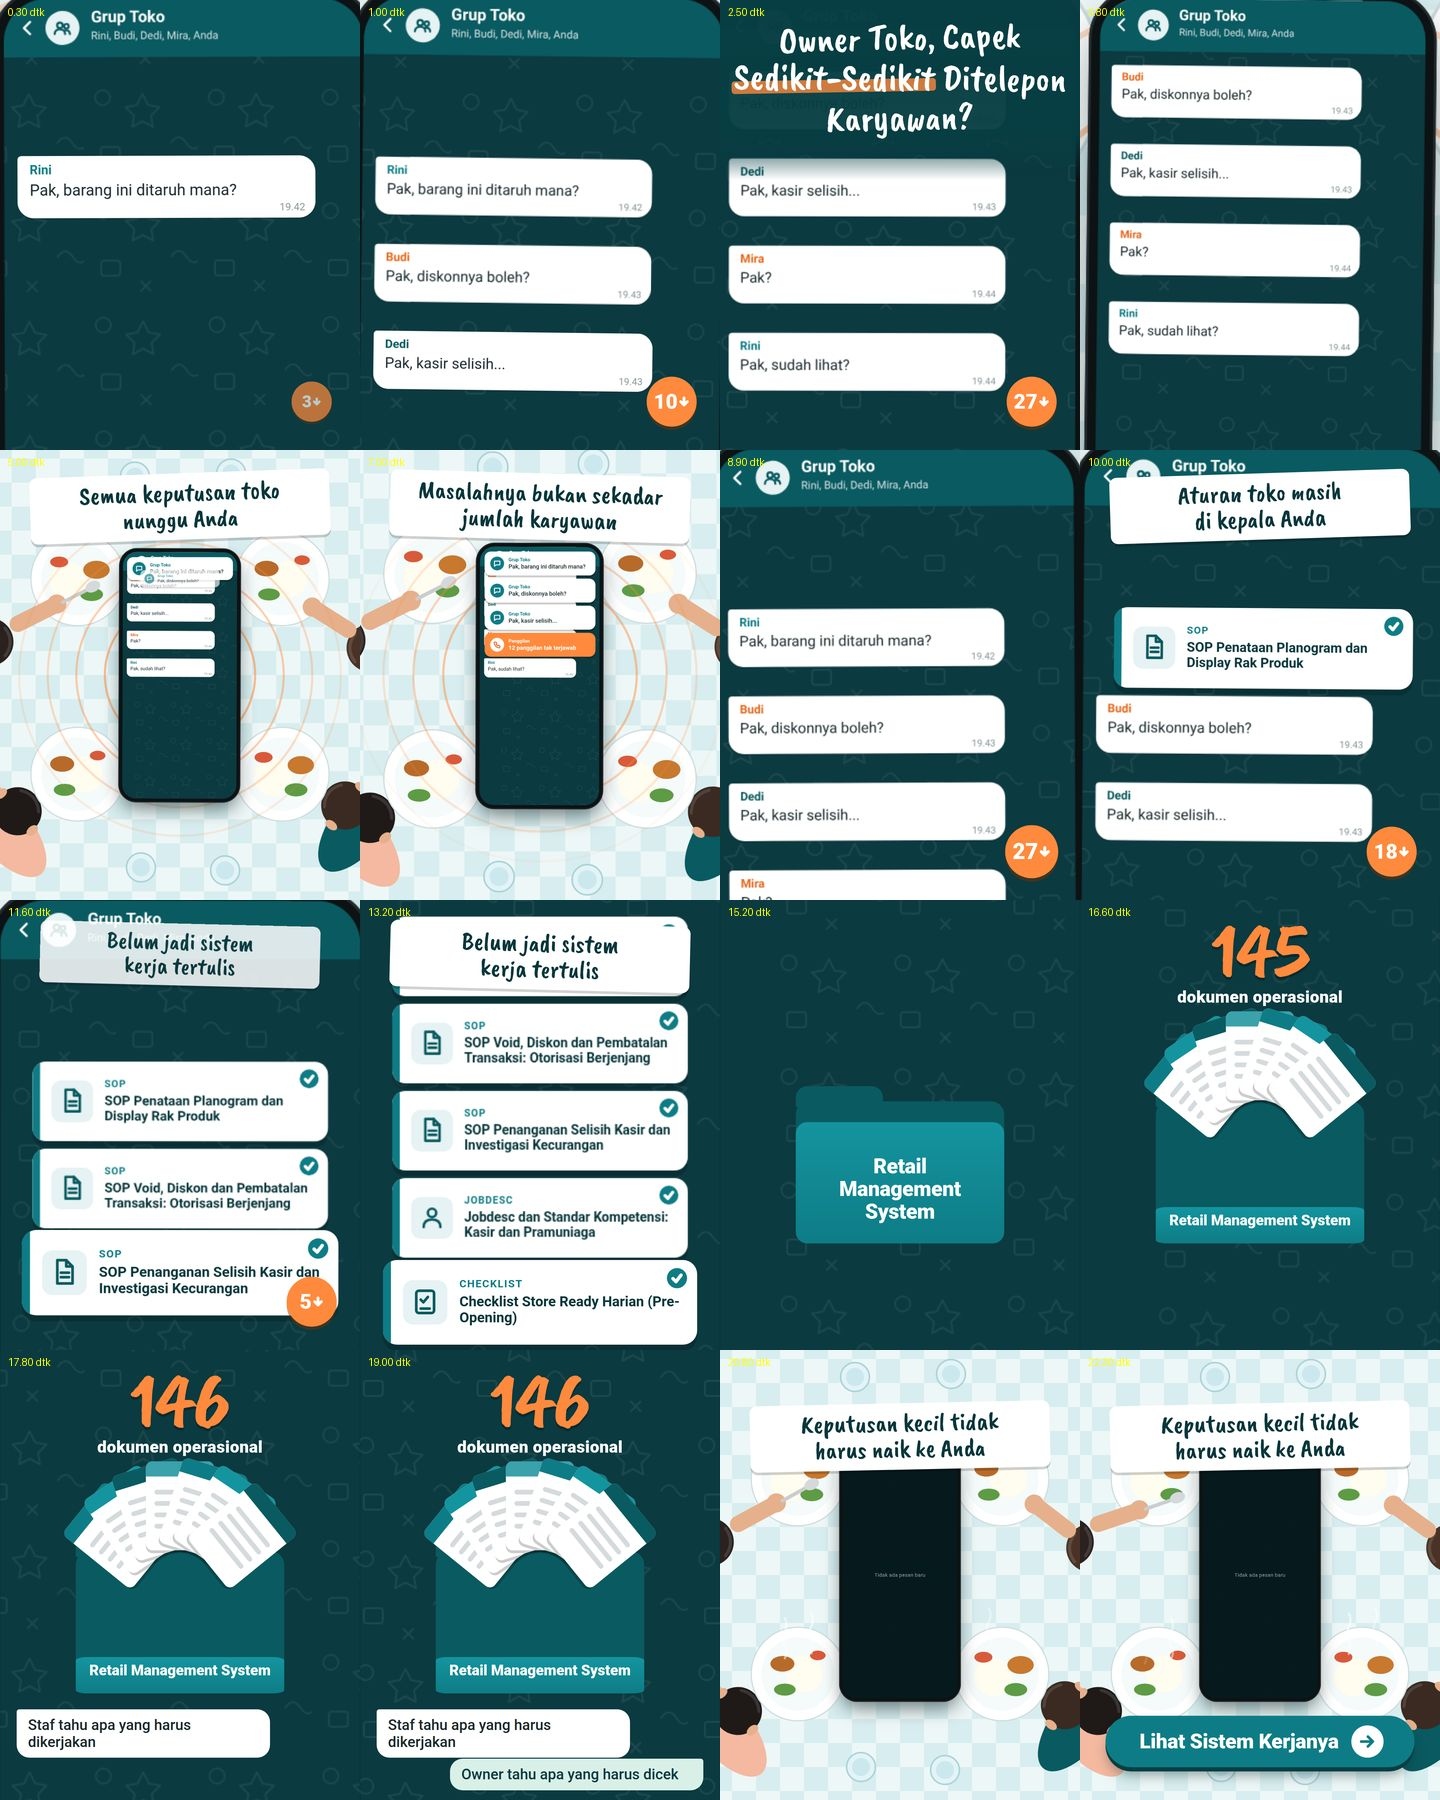
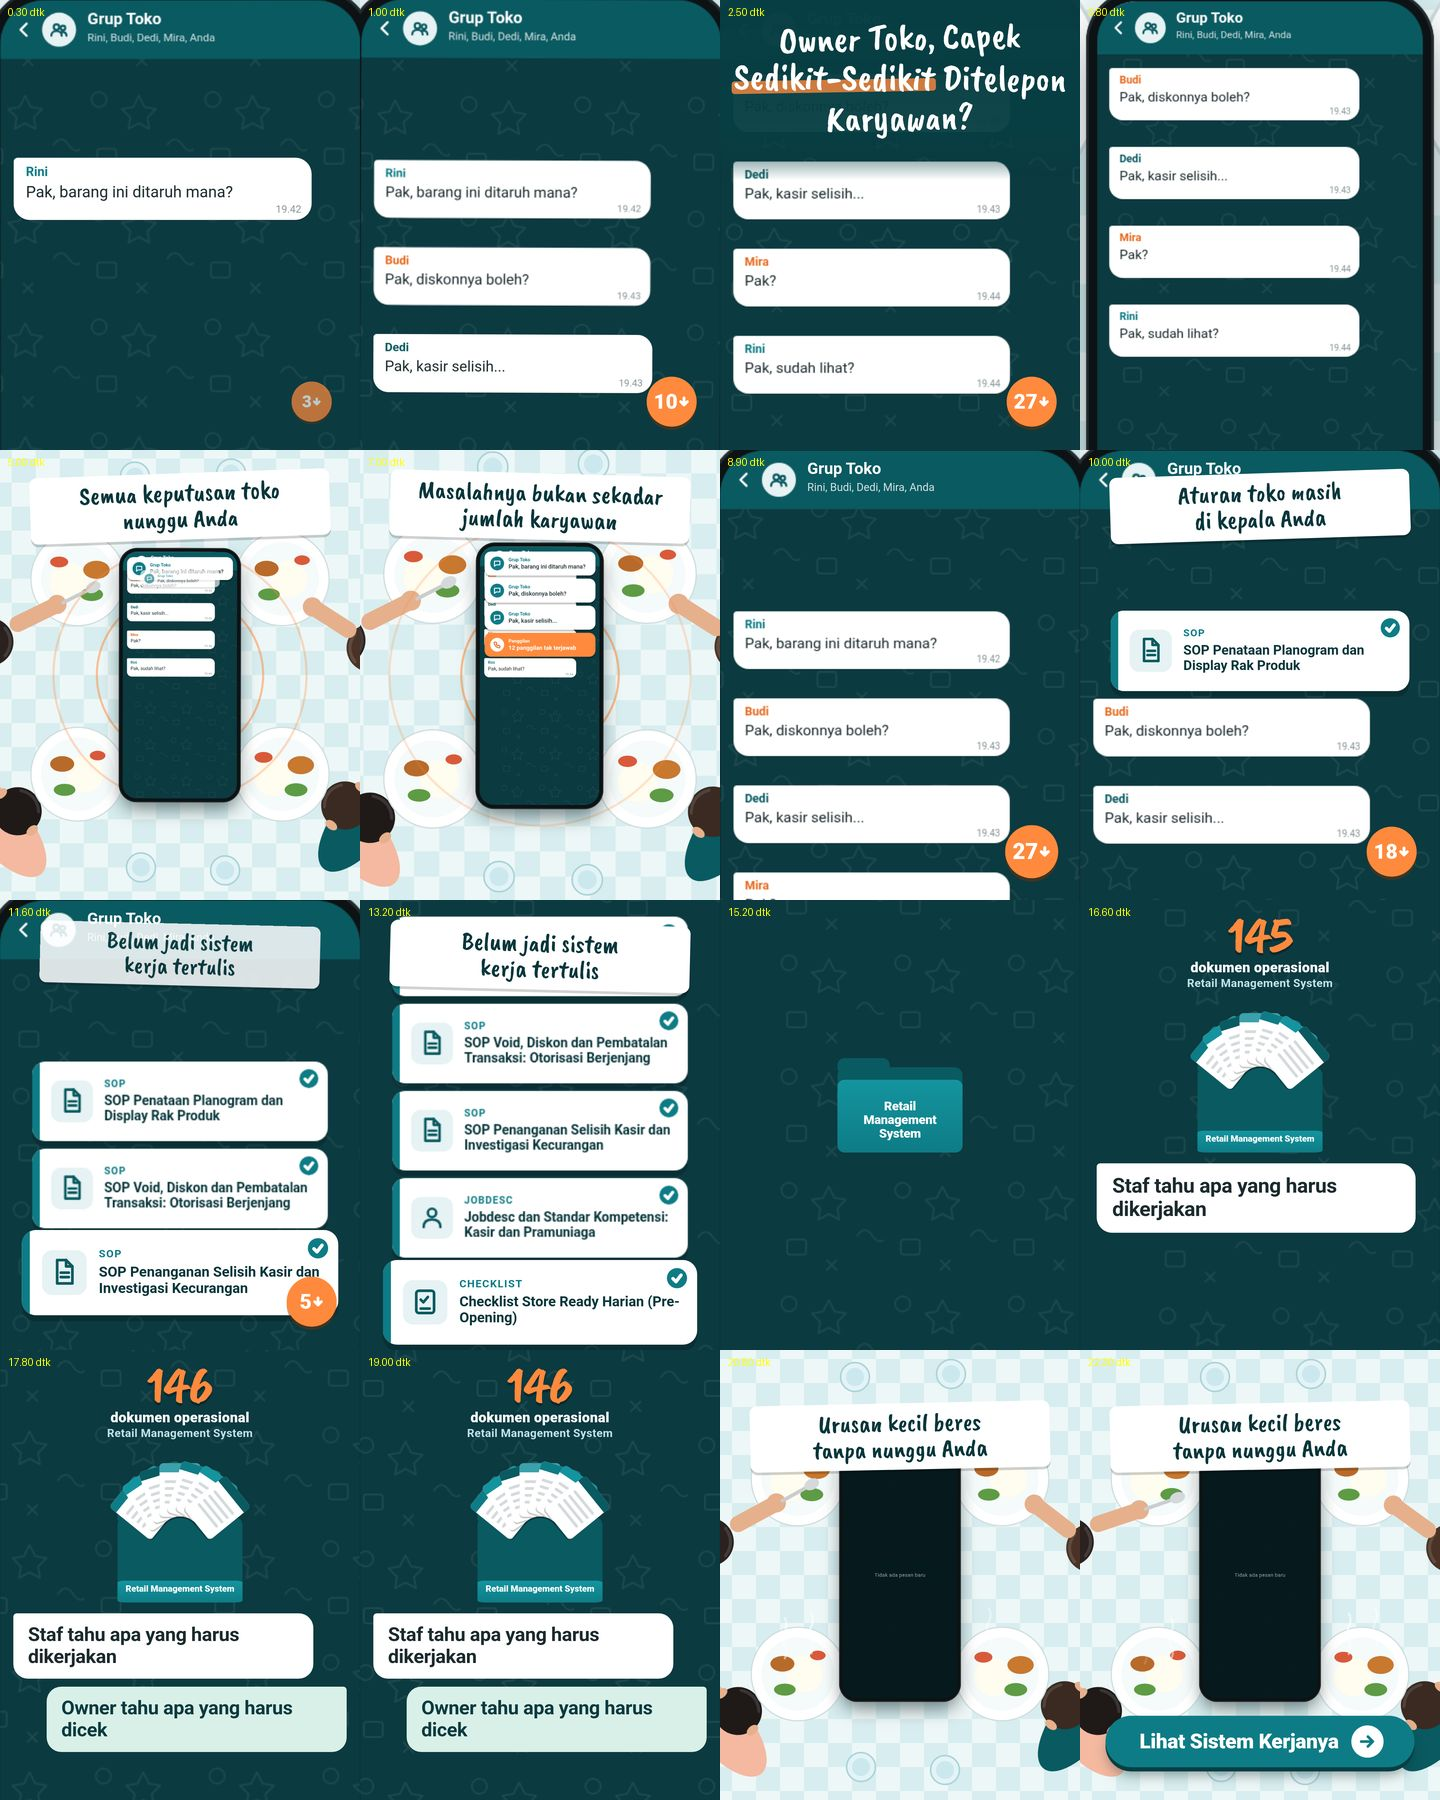
Promo 5: getar HP hanya sesaat, pesan Staf/Owner dibesarkan, kalimat penutup diganti
Claude-Session: https://claude.ai/code/session_01UMN6b96XPFLNVTRhgm7URb

diff --git a/projects/promo-5-rms/index.html b/projects/promo-5-rms/index.html
@@ -91,12 +91,13 @@ html,body{width:100%;height:100%;background:#000;overflow:hidden;font-family:"Ro
 #badge{left:860px;top:1130px;width:150px;height:150px;border-radius:50%;background:var(--or);color:#fff;display:flex;align-items:center;justify-content:center;gap:2px;
   font:900 62px/1 Roboto;box-shadow:0 10px 0 rgba(120,50,0,.45);opacity:0}
 #badge svg{width:34px;height:34px;fill:none;stroke:#fff;stroke-width:6;stroke-linecap:round;stroke-linejoin:round}
-#c146{left:0;right:0;top:46px;text-align:center;opacity:0}
-#c146 .nu{font-size:236px;line-height:.9;color:var(--or);text-shadow:0 8px 0 rgba(0,0,0,.28);font-variant-numeric:tabular-nums}
-#c146 .lb{font:900 50px/1 Roboto;color:#fff;letter-spacing:.01em;margin-top:8px}
-.cb{width:760px;padding:22px 34px;border-radius:8px 38px 38px 38px;font:500 44px/1.15 Roboto;opacity:0;transform-origin:0 0}
-#cb1{left:50px;top:1078px;background:#fff;color:#1B2A2D}
-#cb2{left:270px;top:1226px;background:#D9F0E8;color:#0B3A40;border-radius:38px 8px 38px 38px;transform-origin:100% 0}
+#c146{left:0;right:0;top:36px;text-align:center;opacity:0}
+#c146 .nu{font-size:156px;line-height:.9;color:var(--or);text-shadow:0 8px 0 rgba(0,0,0,.28);font-variant-numeric:tabular-nums}
+#c146 .lb{font:900 42px/1 Roboto;color:#fff;letter-spacing:.01em;margin-top:6px}
+#c146 .pn{font:700 34px/1 Roboto;color:#BFE3E6;letter-spacing:.02em;margin-top:8px}
+.cb{width:900px;padding:30px 44px 34px;border-radius:10px 44px 44px 44px;font:700 58px/1.14 Roboto;letter-spacing:-.01em;opacity:0;transform-origin:0 0}
+#cb1{left:40px;top:790px;background:#fff;color:#1B2A2D}
+#cb2{left:140px;top:1010px;background:#D9F0E8;color:#0B3A40;border-radius:44px 10px 44px 44px;transform-origin:100% 0}
 #btn{left:90px;width:900px;top:1100px;height:150px;border-radius:75px;background:var(--teal);color:#fff;display:flex;align-items:center;justify-content:center;gap:28px;
   font:900 60px/1 Roboto;letter-spacing:-.01em;opacity:0;box-shadow:0 12px 0 var(--deep),0 30px 40px -12px rgba(5,40,44,.5);transform-origin:50% 60%}
 #btn .ar{width:94px;height:94px;flex:none;border-radius:50%;background:#fff;display:flex;align-items:center;justify-content:center}
@@ -141,10 +142,10 @@ html,body{width:100%;height:100%;background:#000;overflow:hidden;font-family:"Ro
     <div class="stk hw" id="s2"><span class="ln"><span class="t">Masalahnya bukan sekadar</span></span><span class="ln"><span class="t">jumlah karyawan</span></span></div>
     <div class="stk hw" id="s3"><span class="ln"><span class="t">Aturan toko masih</span></span><span class="ln"><span class="t">di kepala Anda</span></span></div>
     <div class="stk hw" id="s4"><span class="ln"><span class="t">Belum jadi sistem</span></span><span class="ln"><span class="t">kerja tertulis</span></span></div>
-    <div id="c146"><div class="nu hw" id="n146">0</div><div class="lb">dokumen operasional</div></div>
+    <div id="c146"><div class="nu hw" id="n146">0</div><div class="lb">dokumen operasional</div><div class="pn">Retail Management System</div></div>
     <div class="cb" id="cb1">Staf tahu apa yang harus dikerjakan</div>
     <div class="cb" id="cb2">Owner tahu apa yang harus dicek</div>
-    <div class="stk hw" id="s5"><span class="ln"><span class="t">Keputusan kecil tidak</span></span><span class="ln"><span class="t">harus naik ke Anda</span></span></div>
+    <div class="stk hw" id="s5"><span class="ln"><span class="t">Urusan kecil beres</span></span><span class="ln"><span class="t">tanpa nunggu Anda</span></span></div>
     <div id="btn"><span class="t" id="btnt">Lihat Sistem Kerjanya</span><div class="ar"><svg viewBox="0 0 40 40"><path d="M6 20 H31 M21 9 L32 20 L21 31"/></svg></div></div>
   </div>
 </div>
@@ -225,16 +226,20 @@ const fd=FC.map((c,i)=>{const e=document.createElement('div');e.className='fd';e
 
 /* ============ KAMERA + PROSEDURAL (fungsi murni dari t) ============ */
 const CAM={s:2.8421,fx:0,fy:-173},BZ={a:1},ST={a:0};
+/* HP bergetar hanya sesaat tiap pesan masuk (±0,4 dtk), selebihnya diam supaya teks chat terbaca */
+const BURSTS=[.05,.5,.9,1.35,1.7,4.55,4.93,5.31,5.69,6.4,7.0];
+const burst=t=>{let m=0;for(const b of BURSTS){const d=t-b;if(d>=0&&d<.4)m=Math.max(m,Math.exp(-d*9));}return m;};
 const world=$('#world'),phone=$('#phone'),wall=$('#wall'),arm=$('#arm'),arm2=$('#arm2');
 function render(t){
   const s=CAM.s;
   world.style.transform=`translate(540px,675px) scale(${s.toFixed(4)}) translate(${(-CAM.fx).toFixed(2)}px,${(-CAM.fy).toFixed(2)}px)`;
-  const A=BZ.a*5;
+  const A=BZ.a*4*burst(t);
   phone.style.transform=`translate(${(Math.sin(t*110)*A).toFixed(2)}px,${(Math.cos(t*97)*A*.7).toFixed(2)}px) rotate(${(Math.sin(t*83)*A*.14).toFixed(2)}deg)`;
   wall.style.transform=`translate(${((t*14)%120).toFixed(1)}px,${((t*9)%120).toFixed(1)}px)`;
-  rings.forEach((r,k)=>{const ph=(t*1.7+k*.25)%1;r.setAttribute('r',(250+ph*380).toFixed(1));r.setAttribute('opacity',(BZ.a*(1-ph)*.55).toFixed(3));});
-  arm.setAttribute('transform',`translate(-540 -170) rotate(${(Math.sin(t*1.5)*9*(1-BZ.a)).toFixed(2)})`);
-  arm2.setAttribute('transform',`translate(560 -150) rotate(${(Math.sin(t*1.2+1)*7*(1-BZ.a)).toFixed(2)})`);
+  rings.forEach((r,k)=>{let tb=-9;BURSTS.forEach((b,i)=>{if(b<=t&&i%4===k)tb=Math.max(tb,b);});const ph=(t-tb)/1.0;
+    r.setAttribute('r',(250+Math.min(ph,1)*380).toFixed(1));r.setAttribute('opacity',(ph>=0&&ph<=1?(1-ph)*.55:0).toFixed(3));});
+  arm.setAttribute('transform',`translate(-540 -170) rotate(${(Math.sin(t*1.5)*9*(1-Math.min(1,burst(t)*1.4))*(t<19.4?.25:1)).toFixed(2)})`);
+  arm2.setAttribute('transform',`translate(560 -150) rotate(${(Math.sin(t*1.2+1)*7*(1-Math.min(1,burst(t)*1.4))*(t<19.4?.25:1)).toFixed(2)})`);
   steam.forEach(sm=>{const ph=((t*.5+sm.k*.23)%1);sm.el.setAttribute('transform',`translate(${sm.x} ${(sm.y-ph*70).toFixed(1)}) scale(.8)`);sm.el.setAttribute('opacity',(ST.a*Math.sin(ph*Math.PI)*.75).toFixed(3));});
 }
 
@@ -296,7 +301,7 @@ tl.to(dc,{opacity:0,y:-160,duration:.35,ease:'power2.in',stagger:.05},14.0);
 
 /* ----- 4. 0:14,4–0:19,3  folder terbuka, 146 dokumen ----- */
 tl.to(CAM,{fy:0,duration:.5,ease:'power2.inOut'},14.2);
-gsap.set($('#folder'),{x:0,y:10});
+gsap.set($('#folder'),{x:0,y:-40,scale:.6});
 const fb=$('#fb'),ff=$('#ff'),c146=$('#c146'),n146=$('#n146');
 tl.fromTo([fb,ff,$('#l3')],{opacity:0,y:200,scale:.7},{opacity:1,y:0,scale:1,duration:.55,ease:'back.out(1.8)',immediateRender:false},14.6);
 tl.to($('#l3'),{opacity:0,duration:.2},15.25);tl.to($('#l1'),{opacity:1,duration:.3},15.55);
@@ -307,8 +312,8 @@ tl.fromTo(c146,{opacity:0,scale:.6},{opacity:1,scale:1,duration:.4,ease:'back.ou
 const cn={v:0};tl.fromTo(cn,{v:0},{v:146,duration:1.5,ease:'power2.out',immediateRender:false,onUpdate(){n146.textContent=Math.round(cn.v);}},15.4);
 gsap.set(c146,{transformOrigin:'50% 50%'});
 tl.to(c146,{scale:1.12,duration:.1,ease:'power2.out'},16.9);tl.to(c146,{scale:1,duration:.3,ease:'back.out(3)'},17.0);
-tl.fromTo($('#cb1'),{opacity:0,scale:.5,x:-80},{opacity:1,scale:1,x:0,duration:.45,ease:'back.out(2.2)',immediateRender:false},17.3);
-tl.fromTo($('#cb2'),{opacity:0,scale:.5,x:80},{opacity:1,scale:1,x:0,duration:.45,ease:'back.out(2.2)',immediateRender:false},17.95);
+tl.fromTo($('#cb1'),{opacity:0,scale:.5,x:-80},{opacity:1,scale:1,x:0,duration:.45,ease:'back.out(2.2)',immediateRender:false},16.3);
+tl.fromTo($('#cb2'),{opacity:0,scale:.5,x:80},{opacity:1,scale:1,x:0,duration:.45,ease:'back.out(2.2)',immediateRender:false},17.2);
 tl.to([c146,$('#cb1'),$('#cb2')],{opacity:0,y:-60,duration:.3,ease:'power2.in'},19.0);
 tl.to(fdocs,{opacity:0,duration:.3},19.1);tl.to([fb,ff,$('#l1')],{opacity:0,y:120,duration:.3,ease:'power2.in'},19.1);
 

diff --git a/projects/promo-5-rms/naskah.md b/projects/promo-5-rms/naskah.md
@@ -15,7 +15,7 @@ CTA (dari user): **Lihat Sistem Kerjanya →**
 | 0:03,4–0:08,3 | Kamera mundur menyingkap meja makan dari atas. HP bergetar di tengah, banner notifikasi dan panggilan tak terjawab menumpuk, tangan yang memegang sendok membeku | "Semua keputusan toko nunggu Anda" → "Masalahnya bukan sekadar jumlah karyawan" |
 | 0:08,3–0:14,4 | Kamera masuk lagi ke layar. Tiap chat berubah jadi dokumen yang menjawabnya; lencana 27 → 0; HP berhenti bergetar | "Aturan toko masih di kepala Anda" → "Belum jadi sistem kerja tertulis" |
 | 0:14,4–0:19,3 | Folder Retail Management System terbuka, dokumen mengipas, penghitung naik ke 146 | "146 dokumen operasional" + gelembung "Staf tahu apa yang harus dikerjakan" dan "Owner tahu apa yang harus dicek" |
-| 0:19,4–0:22,5 | Kamera mundur ke meja makan yang tenang: layar HP padam, uap naik pelan, tangan makan lagi | "Keputusan kecil tidak harus naik ke Anda" + tombol Lihat Sistem Kerjanya → |
+| 0:19,4–0:22,5 | Kamera mundur ke meja makan yang tenang: layar HP padam, uap naik pelan, tangan makan lagi | "Urusan kecil beres tanpa nunggu Anda" + tombol Lihat Sistem Kerjanya → |
 
 ## Chat → dokumen asli
 - "Pak, barang ini ditaruh mana?" → #93 SOP Penataan Planogram dan Display Rak Produk
@@ -36,3 +36,8 @@ CTA (dari user): **Lihat Sistem Kerjanya →**
 - Font: Caveat Brush (hook, coretan) + Roboto (teks chat, meniru aplikasi chat).
 - Latar: dinding chat berpola doodle yang bergeser pelan → meja makan bertaplak kotak.
 - Tanda tangan gerak: getar HP dan gelembung meletup. Momen istimewa: semua gelembung jadi dokumen, lencana ke 0, layar hening.
+
+## Revisi 1
+- Getar HP dibatasi hanya sesaat tiap pesan masuk (±0,4 dtk); adegan dokumen tanpa getar, supaya teks chat terbaca.
+- Adegan 4: angka 146 dan folder diperkecil; dua gelembung "Staf tahu…" / "Owner tahu…" dinaikkan ke tengah dengan huruf besar dan muncul lebih awal (16,3 dan 17,2 dtk).
+- Kalimat penutup "Keputusan kecil tidak harus naik ke Anda" diganti "Urusan kecil beres tanpa nunggu Anda" (lebih natural, menjawab "Semua keputusan toko nunggu Anda" di adegan 2).
